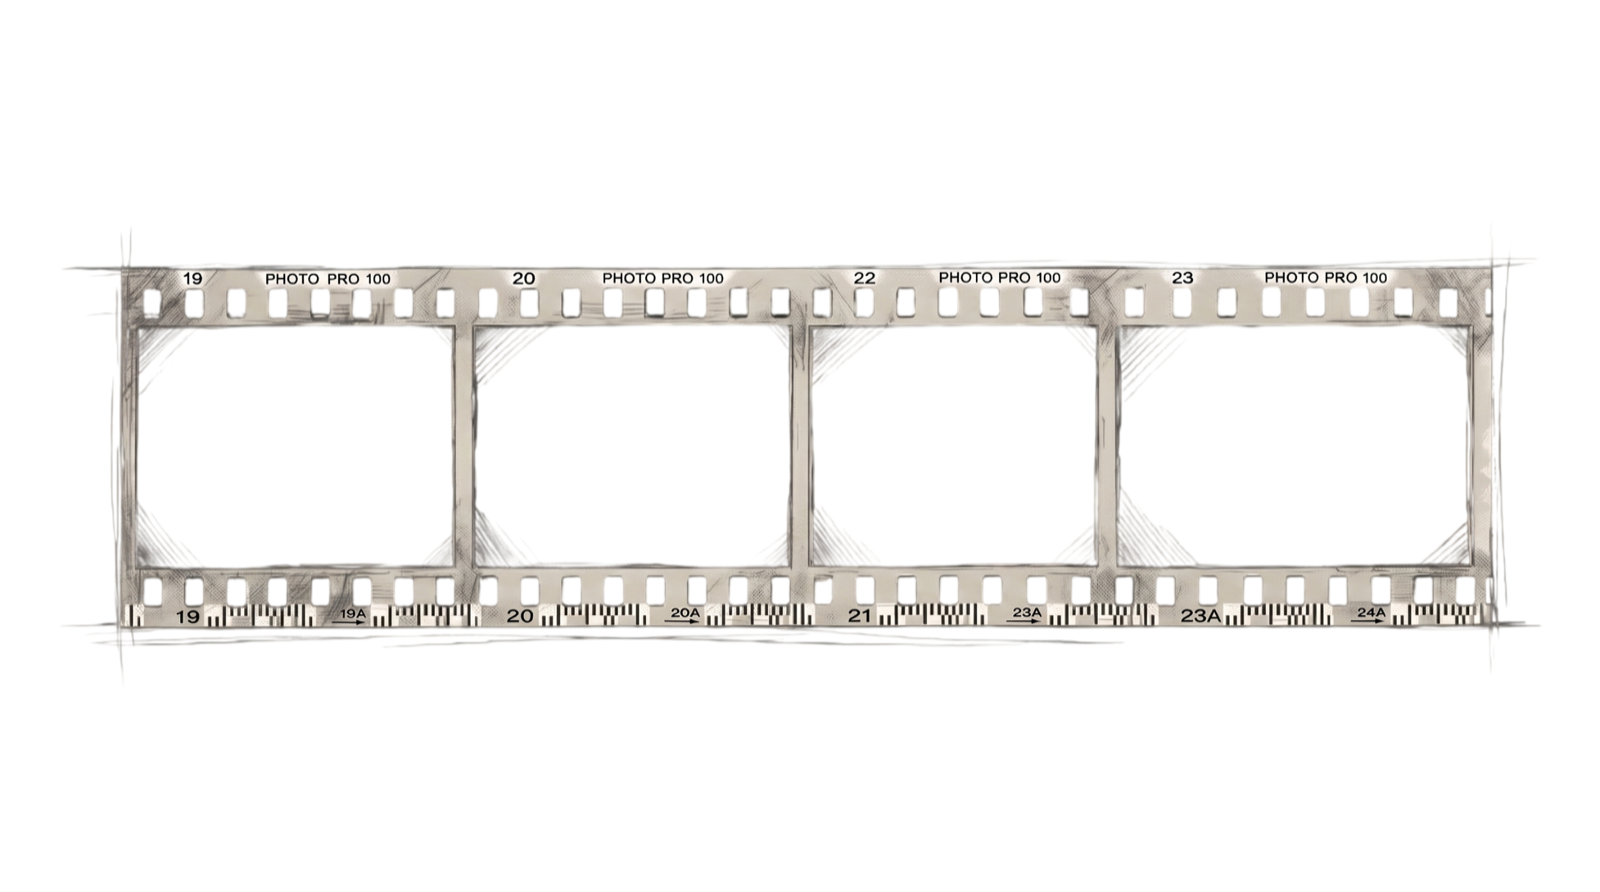
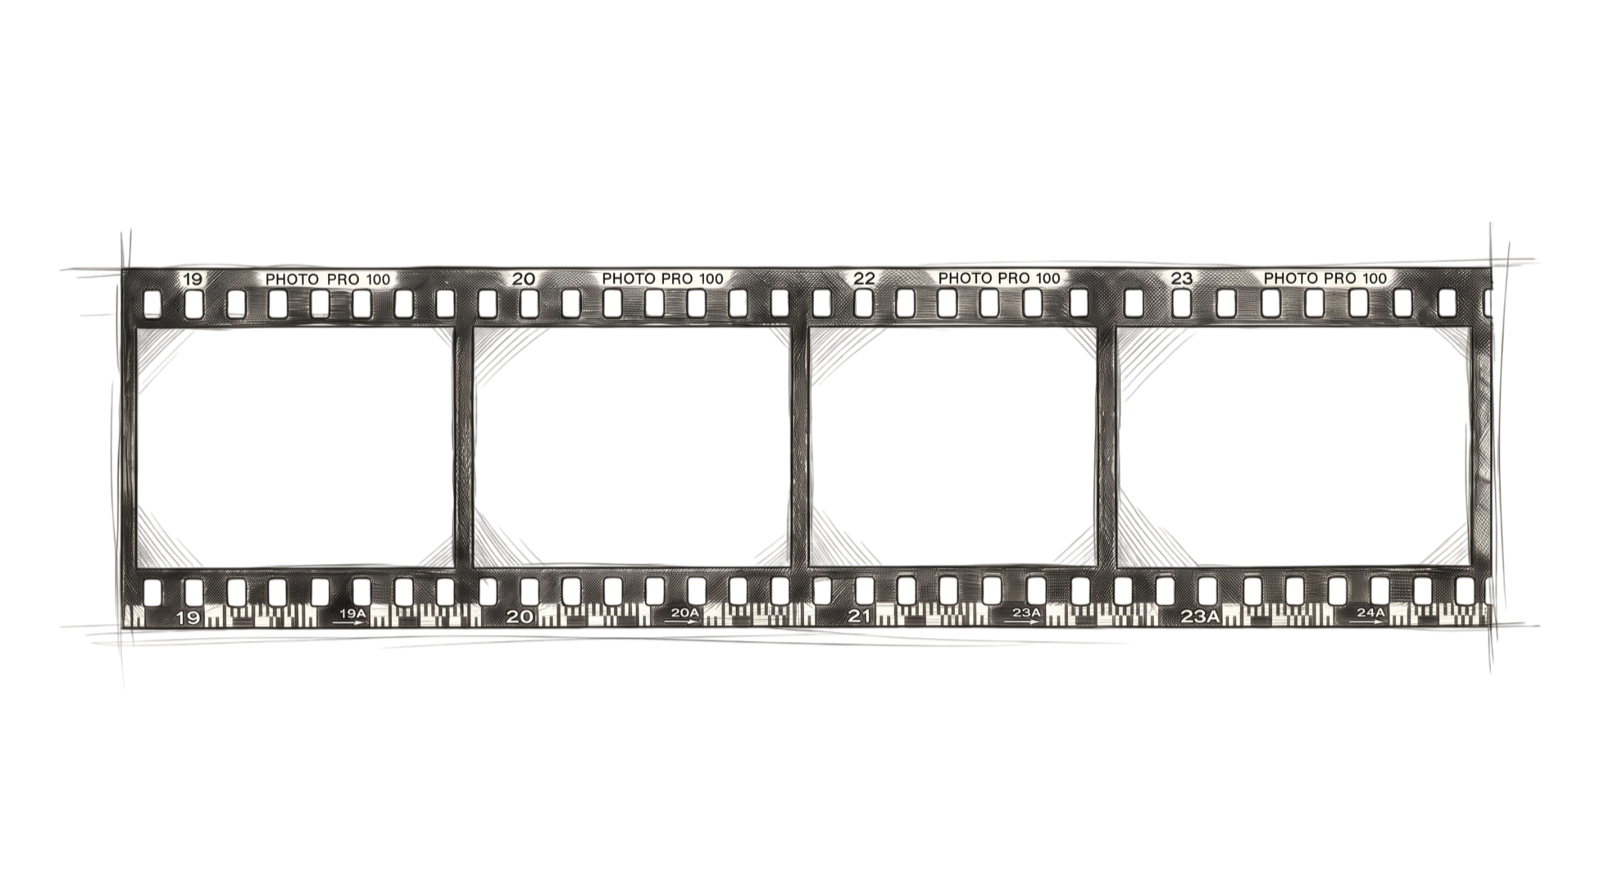
style(gallery): dark film strip drawing on the album page

Changed region(s): [[0.0625, 0.2724, 0.9375, 0.7265]]

diff --git a/src/config/galleryDrawings.ts b/src/config/galleryDrawings.ts
@@ -20,21 +20,21 @@ export const ROLL = {
   label: { left: 11.12, top: 24.16, width: 9.5, height: 36.89 },
 };
 
-// Straight film strip (film-strip.png, transparent, resized from a 2400×1339 original; values are % so they
+// Straight film strip (film-strip.png, transparent, resized from a 2400×1340 original; values are % so they
 // hold for any size). Its two middle frames alternate as tiles, by slot parity. Measured on the original:
 // tile A spans x 695–1202 and tile B x 1202–1660 (divider centres), both cropped to y 380–975; frame windows
-// are transparent at x 715–1183 / 1221–1641, y 490–846; the film itself is opaque from y 400 to 943.
+// are transparent at x 715–1183 / 1220–1640, y 492–847; the film itself is opaque from y 400 to 942.
 // Tile B is ~10% narrower and is stretched to tile A's width.
 export const FILM_TILE = {
   src: "/images/galleria/film-strip.png",
   aspect: "507 / 595",
   tiles: [
-    { size: "473.37% 225.04%", position: "36.71% 51.07%" },
-    { size: "524.02% 225.04%", position: "61.9% 51.07%" },
+    { size: "473.37% 225.21%", position: "36.71% 51.01%" },
+    { size: "524.02% 225.21%", position: "61.9% 51.01%" },
   ],
   // Slightly larger than the window: the edges hide under the film.
-  window: { left: 3.4, top: 17.8, width: 93.2, height: 61.4 },
-  band: { top: 0.034, bottom: 0.946 },
+  window: { left: 3.4, top: 18.2, width: 93.2, height: 61 },
+  band: { top: 0.034, bottom: 0.945 },
 };
 
 // Clothesline with six polaroids (clothesline.png, 1200×350). Drawing pixels of the shipped file:
